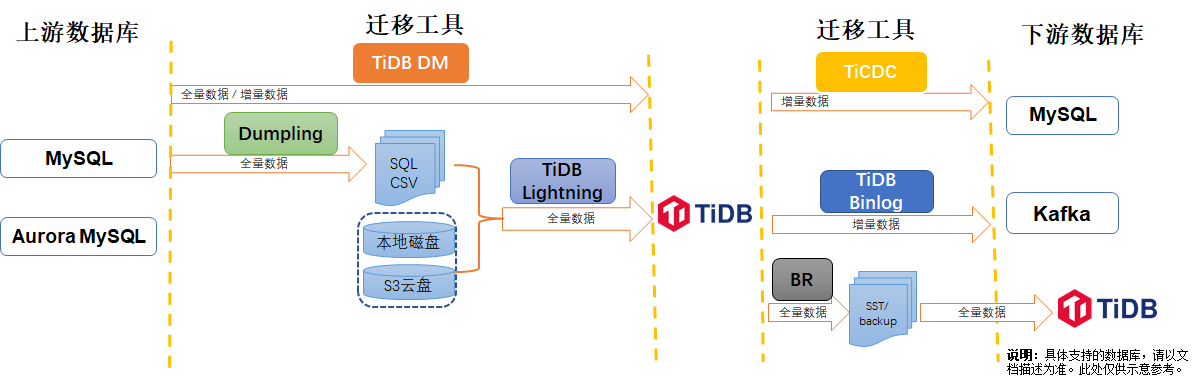
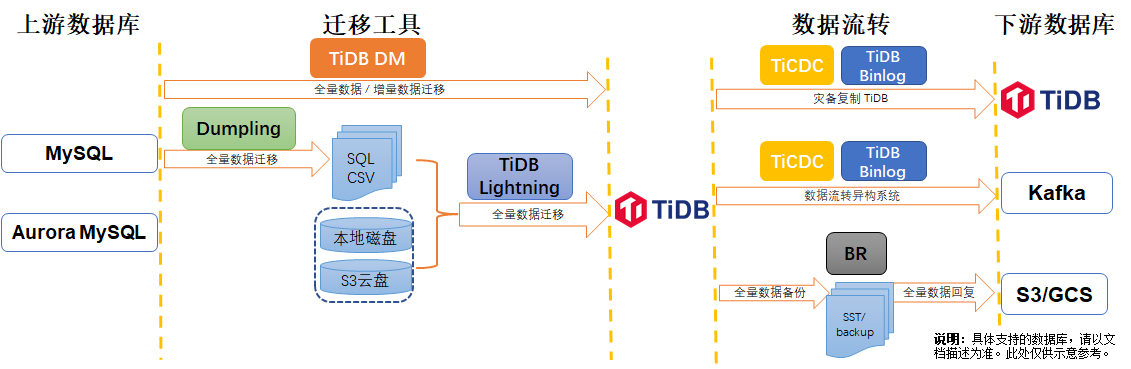
Updated diagram
Updated according to yulong's comments.

diff --git a/migration-tools.md b/migration-tools.md
@@ -5,7 +5,7 @@ summary: 介绍 TiDB 的数据迁移工具。
 
 # 数据迁移工具概览
 
-TiDB 提供了丰富的数据迁移相关的工具，用于全量迁移、增量迁移、数据导出、数据导入、备份恢复、数据同步、数据校验等多种场景。
+TiDB 提供了丰富的数据迁移相关的工具，用于全量迁移、增量迁移、备份恢复、数据同步等多种场景。
 
 本文介绍了使用这些工具的场景、优势和相关限制等信息。请根据你的需求选择合适的工具。
 
@@ -13,14 +13,14 @@ TiDB 提供了丰富的数据迁移相关的工具，用于全量迁移、增量
 
 ![TiDB Migration Tools](/media/migration-tools.png)
 
-以下表格介绍了迁移工具的使用场景、支持的上下游等信息。
+下表介绍了迁移工具的使用场景、支持的上下游等信息。
 
 | 名称 | 使用场景 | 上游（或输入源文件） | 下游（或输出文件） |主要优势 | 使用限制 |
 |:---|:---|:---|:---|:---|:---|
-|  [TiDB DM](https://docs.pingcap.com/zh/tidb-data-migration/stable/overview)|用于将数据从与 MySQL 协议兼容的数据库迁移到 TiDB。  |  MySQL，MariaDB，Aurora，MySQL| TiDB   | 一体化的数据迁移任务管理工具，支持全量迁移和增量同步；支持对表与操作进行过滤；支持源库表与目标库异构表迁移；支持分库分表的合并迁移。 |  建议用于1TB以内的数据迁移。|
+|  [TiDB DM](https://docs.pingcap.com/zh/tidb-data-migration/stable/overview)|用于将数据从与 MySQL 协议兼容的数据库迁移到 TiDB。  |  MySQL，MariaDB，Aurora，MySQL| TiDB   | 一体化的数据迁移任务管理工具，支持全量迁移和增量同步；支持对表与操作进行过滤；支持分库分表的合并迁移。 |  建议用于 1TB 以内的存量数据迁移。|
 | [Dumpling](/dumpling-overview.md) | 用于将数据从 MySQL/TiDB 进行全量导出。| MySQL，TiDB| SQL，CSV  | 支持全新的 table-filter，筛选数据更加方便；支持导出到 Amazon S3 云盘|如果导出后计划往非 TiDB 的数据库恢复，建议使用 Dumpling；如果是往另一个 TiDB 恢复，建议使用 BR。 |
-| [TiDB Lightning](/tidb-lightning/tidb-lightning-overview.md)| 用于将数据全量导入到 TiDB。|Dumpling 输出的文件；CSV 文件；从本地盘或 Amazon S3 云盘读取数据。 | TiDB | 支持迅速导入大量新数据，实现快速初始化 TiDB 集群的指定表；支持恢复所有备份数据；支持断点续传；支持数据过滤。| 如果使用 Local-backend 进行数据导入，TiDB Lightning 运行后，TiDB 集群将无法正常对外提供服务。如果你不希望 TiDB 集群的对外服务受到影响，可以参考 TiDB Lightning TiDB-backend 中的硬件需求与部署方式进行数据导入。|
-|[Backup & Restore (BR)](/br/backup-and-restore-tool.md) |用于对大数据量的 TiDB 集群进行数据备份和恢复。 | TiDB| SST；backup.meta 文件；backup.lock 文件|适合向另一个 TiDB 恢复数据。 | BR 恢复到 TiCDC / Drainer 的上游集群时，恢复数据无法由 TiCDC / Drainer 同步到下游。BR 只支持在 new_collations_enabled_on_first_bootstrap 开关值相同的集群之间进行操作。|
+| [TiDB Lightning](/tidb-lightning/tidb-lightning-overview.md)| 用于将数据全量导入到 TiDB。|Dumpling 输出的文件；CSV 文件；从本地盘或 Amazon S3 云盘读取数据。 | TiDB | 支持迅速导入大量新数据，实现快速初始化 TiDB 集群的指定表；支持断点续传；支持数据过滤。| 如果使用 Local-backend 进行数据导入，TiDB Lightning 运行后，TiDB 集群将无法正常对外提供服务。如果你不希望 TiDB 集群的对外服务受到影响，可以参考 TiDB Lightning TiDB-backend 中的硬件需求与部署方式进行数据导入。|
+|[Backup & Restore (BR)](/br/backup-and-restore-tool.md) |用于对大数据量的 TiDB 集群进行数据备份和恢复。 | TiDB| SST；backup.meta 文件；backup.lock 文件|适用于向另一个 TiDB 恢复数据。支持数据冷备份到外部存储，可以用于灾备恢复。 | BR 恢复到 TiCDC / Drainer 的上游集群时，恢复数据无法由 TiCDC / Drainer 同步到下游。BR 只支持在 new_collations_enabled_on_first_bootstrap 开关值相同的集群之间进行操作。|
 |[TiDB Binlog](/tidb-binlog/tidb-binlog-overview.md) | 用于 TiDB 集群间的增量数据同步，如将其中一个 TiDB 集群作为另一个 TiDB 集群的从集群。| TiDB | TiDB，MySQL，Kafka，增量备份文件|支持实时备份和恢复。备份 TiDB 集群数据，同时可以用于 TiDB 集群故障时恢复。 |与部分TiDB版本不兼容，不能一起使用。|
 | [TiCDC](/ticdc/ticdc-overview.md)| 通过拉取 TiKV 变更日志实现的 TiDB 增量数据同步工具，具有将数据还原到与上游任意 TSO 一致状态的能力，支持其他系统订阅数据变更。|TiDB | TiDB，MySQL，Apache Pulsar，Kafka，Confluent|提供开放数据协议 (TiCDC Open Protocol)。 | TiCDC 只能同步至少存在一个有效索引的表。暂不支持以下场景：暂不支持单独使用 RawKV 的 TiKV 集群。暂不支持在 TiDB 中创建 SEQUENCE 的 DDL 操作和 SEQUENCE 函数。|
 |[sync-diff-inspector](/sync-diff-inspector/sync-diff-inspector-overview.md) | 用于校验 MySQL／TiDB 中两份数据的一致性。|TiDB，MySQL | TiDB，MySQL| 提供了修复数据的功能，适用于修复少量不一致的数据。|对于 MySQL 和 TiDB 之间的数据同步不支持在线校验。不支持 JSON、BIT、BINARY、BLOB 等类型的数据。 |
